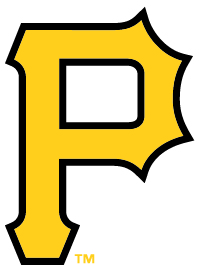
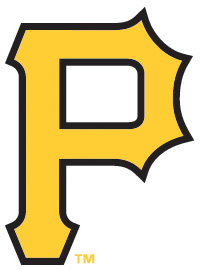
Reduce image sizes

Changed region(s): [[0.03, 0.0297, 0.99, 1.0], [0.27, 0.2082, 0.78, 0.5056], [0.42, 0.9517, 0.48, 0.9814]]

diff --git a/src/components/sponsors/PackageData.ts b/src/components/sponsors/PackageData.ts
@@ -121,7 +121,7 @@ const Data:SponsorshipPackageType[] = [
       "20 sec video production opportunity to be shared on social media channels"
     ],
     "images": [
-        "/images/sponsorslides/liberty.png"
+        "/images/sponsorslides/liberty.jpg"
     ],
     "variant": "red"
   },
@@ -207,7 +207,7 @@ const Data:SponsorshipPackageType[] = [
       "Website Link and Logo"
     ],
     "images": [
-        "/images/sponsorslides/friends.png"
+        "/images/sponsorslides/friends.jpg"
     ],
     "variant": "red"
   }

diff --git a/src/components/home/JuneteenthHistory.tsx b/src/components/home/JuneteenthHistory.tsx
@@ -89,7 +89,7 @@ const JuneteenthHistory: FC = () => {
         </div>
         <div className="relative h-64 rounded-xl shadow-md overflow-hidden lg:h-96">
           <Image
-            src="/images/Screenshot_20230312-201046-142.png"
+            src="/images/Screenshot_20230312-201046-142.jpg"
             alt="Juneteenth Celebration"
             fill
             className="object-cover object-center"

diff --git a/src/data/sponsors.tsx b/src/data/sponsors.tsx
@@ -130,6 +130,12 @@ const sponsors = [
       "websiteUrl": "https://www.rideprt.org/",
       "imageUrl": "/images/sponsors/prt.png",
       "visible": true
+    },
+    {
+      "name": "Metro Community Health Center",
+      "websiteUrl": "https://metrocommunityhealthcenter.org/",
+      "imageUrl": "/images/sponsors/metro.png",
+      "visible": true
     }
   ];
 
